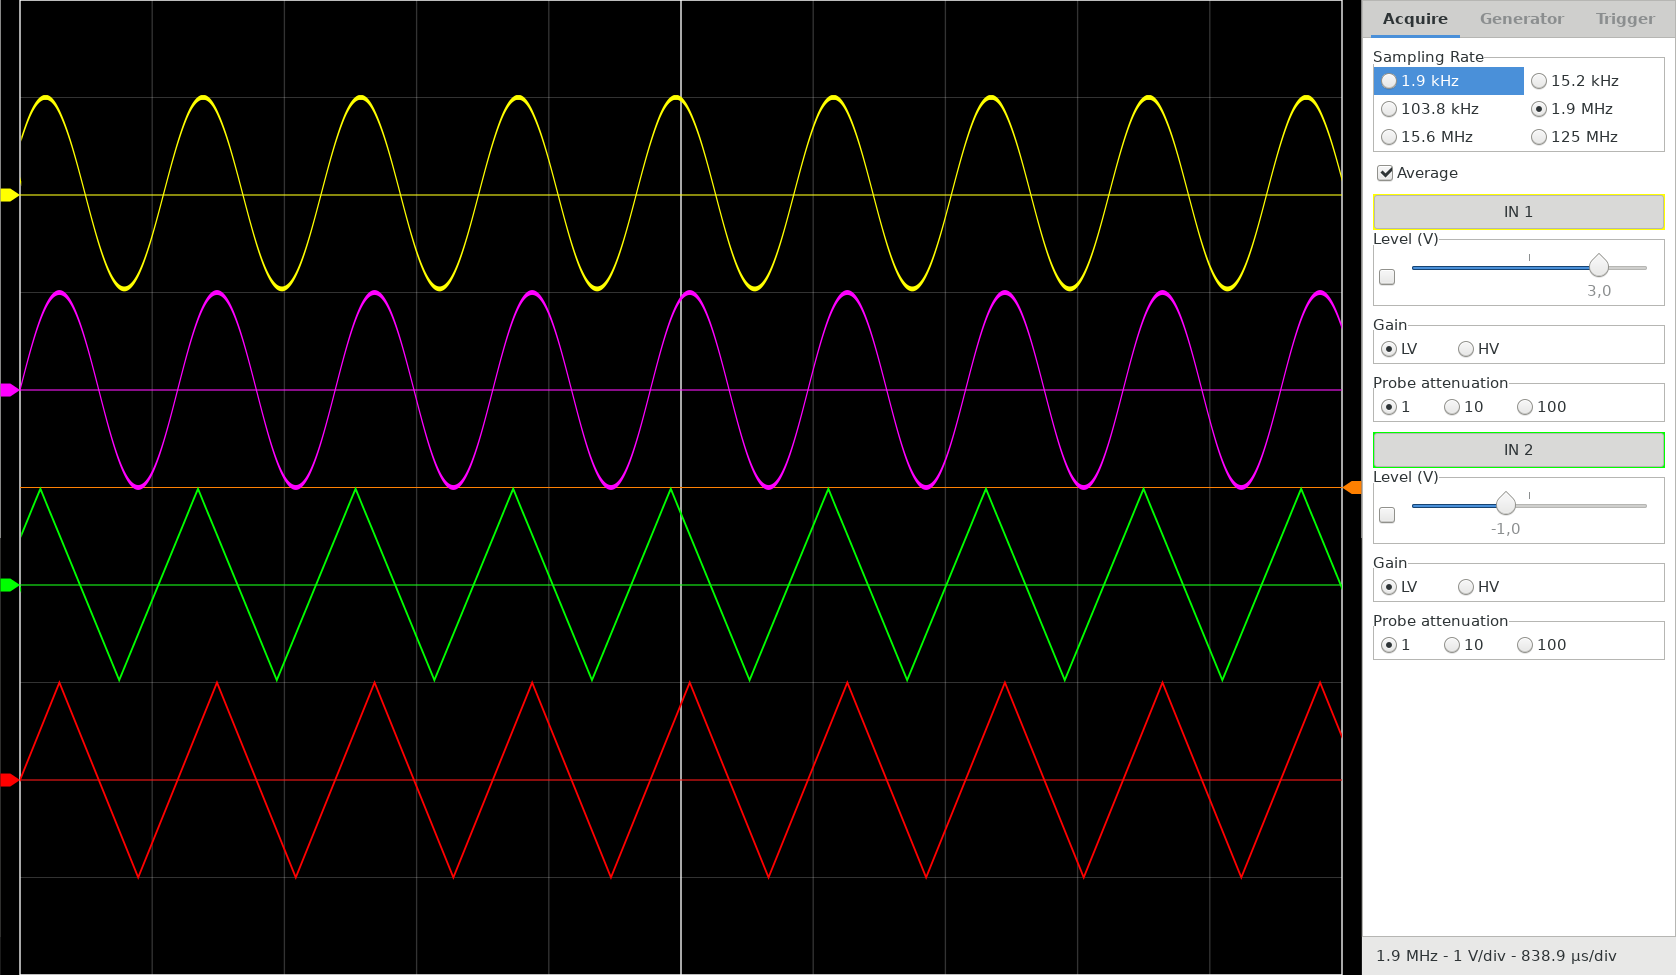
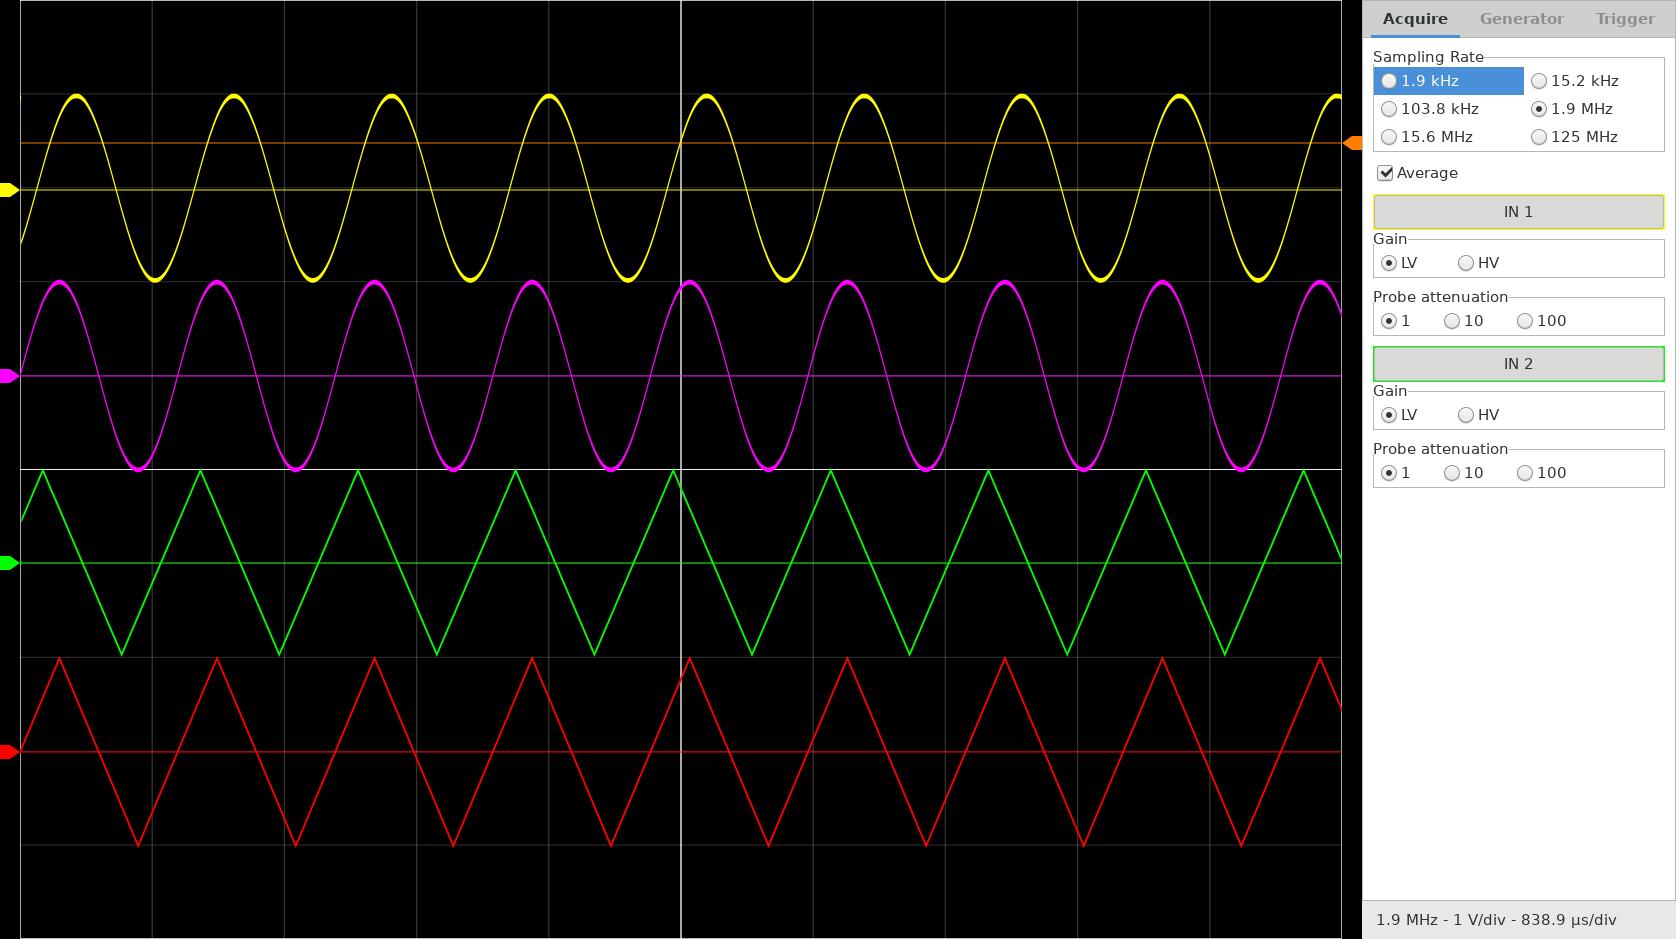
Use level widget for trigger

diff --git a/src/application/trigger/widget.rs b/src/application/trigger/widget.rs
@@ -14,7 +14,6 @@ use super::Signal;
 #[derive(Clone)]
 pub struct Widget {
     page: ::gtk::Box,
-    pub level: ::relm::Component<::widget::PreciseScale>,
     pub single_button: ::gtk::Button,
     pub delay: ::relm::Component<::widget::PreciseScale>,
     stream: ::relm::EventStream<Signal>,
@@ -76,18 +75,9 @@ impl ::relm::Widget for Widget {
                 model.mode = mode;
 
                 match mode {
-                    Mode::Auto => {
-                        self.level.widget().set_visible(false);
-                        self.single_button.set_visible(false);
-                    },
-                    Mode::Normal => {
-                        self.level.widget().set_visible(true);
-                        self.single_button.set_visible(false);
-                    },
-                    Mode::Single => {
-                        self.level.widget().set_visible(true);
-                        self.single_button.set_visible(true);
-                    },
+                    Mode::Auto => self.single_button.set_visible(false),
+                    Mode::Normal => self.single_button.set_visible(false),
+                    Mode::Single => self.single_button.set_visible(true),
                 };
             },
             Signal::Channel(_) | Signal::Edge(_) => {
@@ -97,7 +87,6 @@ impl ::relm::Widget for Widget {
                 }
             },
             Signal::Delay(delay) => model.trigger.set_delay_in_ns(delay),
-            Signal::Level(level) => model.trigger.set_level(level),
             _ => (),
         }
     }
@@ -145,18 +134,6 @@ impl ::relm::Widget for Widget {
         page.pack_start(&single_button, false, false, 0);
         connect!(relm, single_button, connect_clicked(_), Signal::Single);
 
-        let level = page.add_widget::<::widget::PreciseScale, _>(&relm, ());
-        level.widget().set_label("Level (V)");
-        level.widget().set_digits(2);
-        level.widget().set_adjustment(::gtk::Adjustment::new(
-            0.0, -10.0, 10.0, 0.1, 1.0, 0.0
-        ));
-        connect!(
-            level@::widget::precise::Signal::Changed(value),
-            relm,
-            Signal::Level(value as f32)
-        );
-
         let delay = page.add_widget::<::widget::PreciseScale, _>(&relm, ());
         delay.widget().set_label("Delay (ns)");
         delay.widget().set_digits(2);
@@ -190,7 +167,6 @@ impl ::relm::Widget for Widget {
             page,
             single_button,
             delay,
-            level,
             stream,
             mode,
             channel,
@@ -200,13 +176,21 @@ impl ::relm::Widget for Widget {
 }
 
 impl ::application::Panel for Widget {
-    fn draw(&self, context: &::cairo::Context, _: &::application::Model) {
-        context.set_color(::color::TRIGGER);
+    fn draw(&self, context: &::cairo::Context, model: &::application::Model) {
+        let mode = self.mode.widget().get_current();
+
+        if mode == Some(Mode::Normal) || mode == Some(Mode::Single) {
+            context.set_color(::color::TRIGGER);
+
+            context.translate(0.0, model.offset("TRIG"));
+
+            context.move_to(model.scales.h.0, 0.0);
+            context.line_to(model.scales.h.1, 0.0);
+            context.stroke();
+        }
     }
 
-    fn update_scales(&self, scales: ::Scales) {
-        self.level.widget().set_limit(scales.v);
-        self.delay.widget().set_limit(scales.h);
+    fn update_scales(&self, _: ::Scales) {
     }
 }
 

diff --git a/src/application/mod.rs b/src/application/mod.rs
@@ -280,6 +280,13 @@ impl ::relm::Widget for Application {
         connect!(trigger@trigger::Signal::Normal, relm, Signal::TriggerNormal);
         connect!(trigger@trigger::Signal::Single, relm, Signal::TriggerSingle);
 
+        {
+            let level_right = graph.widget().level_right();
+            connect!(trigger@trigger::Signal::Auto, level_right, graph::level::Signal::SourceStop("TRIG".to_owned()));
+            connect!(trigger@trigger::Signal::Normal, level_right, graph::level::Signal::SourceStart("TRIG".to_owned()));
+            connect!(trigger@trigger::Signal::Single, level_right, graph::level::Signal::SourceStart("TRIG".to_owned()));
+        }
+
         notebook.append_page(
             &trigger_page,
             Some(&::gtk::Label::new(Some("Trigger")))
@@ -302,11 +309,6 @@ impl ::relm::Widget for Application {
 
         match model.redpitaya.trigger.get_delay() {
             Ok(delay) => self.trigger.widget().delay.widget().set_value(delay as f64),
-            Err(err) => error!("{}", err),
-        };
-
-        match model.redpitaya.trigger.get_level() {
-            Ok(level) => self.trigger.widget().level.widget().set_value(level as f64),
             Err(err) => error!("{}", err),
         };
 

diff --git a/src/application/graph/level/widget.rs b/src/application/graph/level/widget.rs
@@ -98,13 +98,22 @@ impl Widget {
                 continue;
             }
 
+            let (start, end) = match model.orientation {
+                Orientation::Left => (0.0, width as f64),
+                Orientation::Right => (width as f64, 0.0),
+            };
+
+            let middle = f64::max(start, end) / 2.0;
+            let top = (level.offset + 7) as f64;
+            let bottom = (level.offset - 7) as f64;
+
             context.set_color(name.clone().into());
 
-            context.move_to(0.0, (level.offset + 7) as f64);
-            context.line_to((width / 2) as f64, (level.offset + 7) as f64);
-            context.line_to(width as f64, level.offset as f64);
-            context.line_to((width / 2) as f64, (level.offset - 7) as f64);
-            context.line_to(0.0, (level.offset - 7) as f64);
+            context.move_to(start, top);
+            context.line_to(middle, top);
+            context.line_to(end, level.offset as f64);
+            context.line_to(middle, bottom);
+            context.line_to(start, bottom);
             context.close_path();
 
             context.fill();

diff --git a/src/widget/precise.rs b/src/widget/precise.rs
@@ -92,18 +92,6 @@ impl PreciseScale {
         self.spin.set_adjustment(&adjustment);
     }
 
-    pub fn set_limit(&self, limit: (f64, f64)) {
-        let adjustment = self.scale.get_adjustment();
-        adjustment.set_lower(limit.0);
-        adjustment.set_upper(limit.1);
-        self.scale.set_adjustment(&adjustment);
-
-        let adjustment = self.spin.get_adjustment();
-        adjustment.set_lower(limit.0);
-        adjustment.set_upper(limit.1);
-        self.spin.set_adjustment(&adjustment);
-    }
-
     pub fn set_value(&self, value: f64) {
         self.scale.set_value(value);
     }

diff --git a/src/application/graph/widget.rs b/src/application/graph/widget.rs
@@ -16,6 +16,10 @@ impl Widget {
         &self.level_left
     }
 
+    pub fn level_right<'a>(&'a self) -> &'a ::relm::Component<LevelWidget> {
+        &self.level_right
+    }
+
     pub fn get_width(&self) -> f64 {
         self.drawing_area.get_allocated_width() as f64
     }

diff --git a/src/scales.rs b/src/scales.rs
@@ -1,10 +1,10 @@
-#[derive(Copy, Clone)]
+#[derive(Copy, Clone, Debug)]
 pub struct Rect {
     pub width: f64,
     pub height: f64,
 }
 
-#[derive(Copy, Clone)]
+#[derive(Copy, Clone, Debug)]
 pub struct Scales {
     pub h: (f64, f64),
     pub v: (f64, f64),

diff --git a/src/application/trigger/signal.rs b/src/application/trigger/signal.rs
@@ -13,5 +13,4 @@ pub enum Signal {
     Edge(Edge),
     InternalTick,
     Delay(u8),
-    Level(f32),
 }
